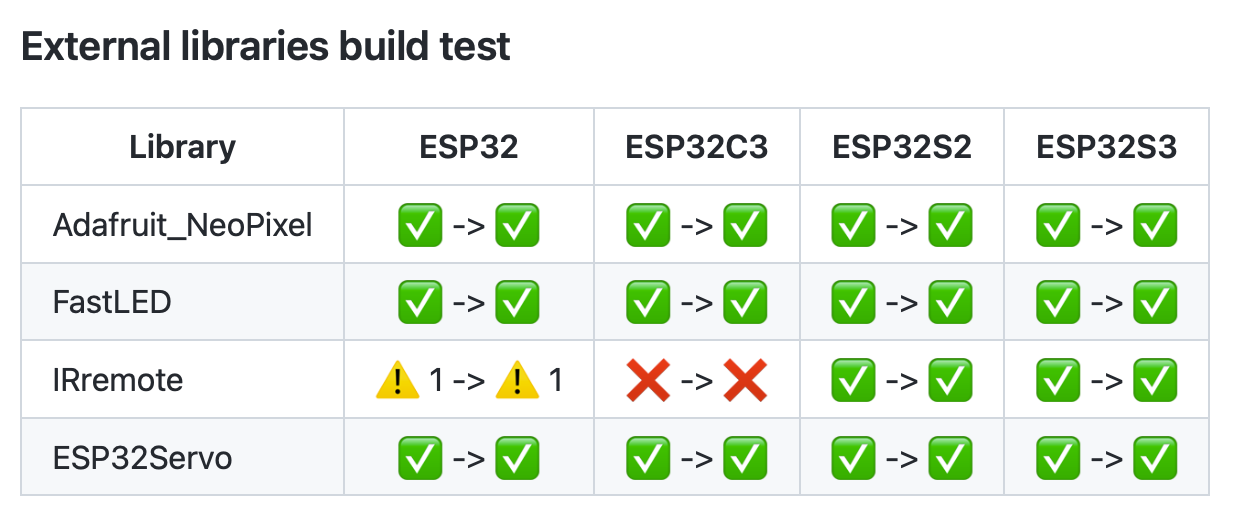
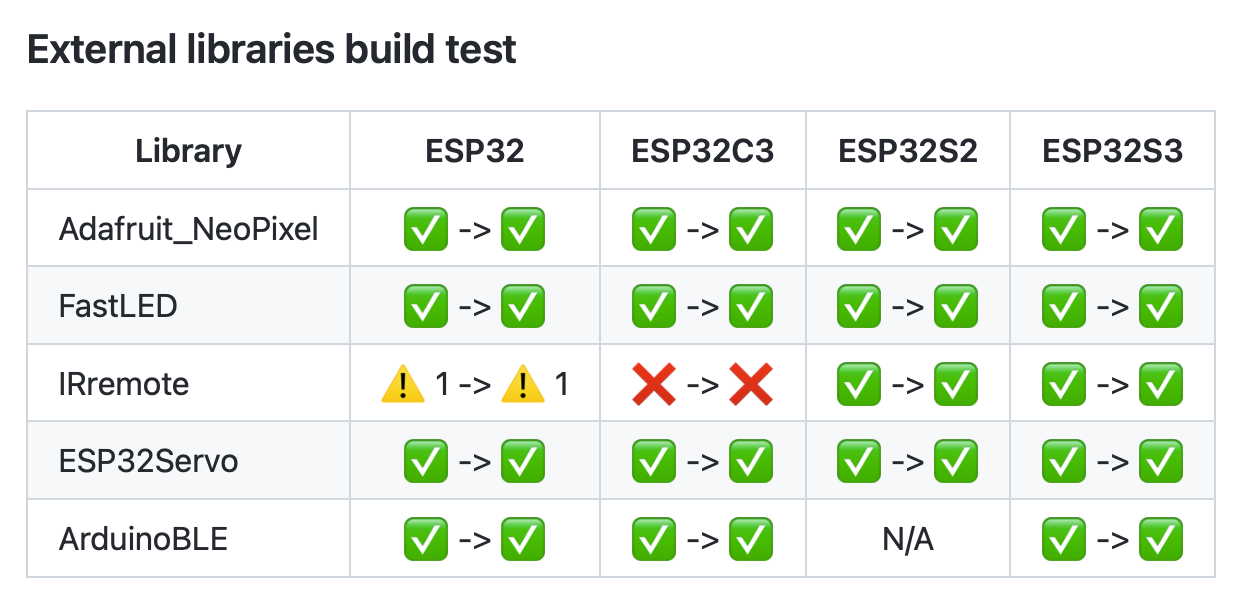
Updated docs

Changed region(s): [[0.0, 0.1544, 0.9838, 0.9575], [0.0, 0.0309, 0.4304, 0.1236]]

diff --git a/docs/source/external_libraries_test.rst b/docs/source/external_libraries_test.rst
@@ -11,8 +11,10 @@ The test is running on all supported ESP32 chips.
 How to Add Library to Test
 --------------------------
 
+Library uses peripheral which is has all chips
+**********************************************
 
-1. Add new line with the library name to the list of UNIVERSAL_LIBRARIES in lib.yml file:
+* Add new line with the library name to the list of UNIVERSAL_LIBRARIES in lib.yml file:
    
   .. code-block:: yaml
 
@@ -24,7 +26,7 @@ How to Add Library to Test
       - name: IRremote
       - name: ESP32Servo
 
-2. Add new line with the sketch path to the list of UNIVERSAL_SKETCHES in lib.yml file (sketch needs to be from the examples of the library):
+* Add new line with the sketch path to the list of UNIVERSAL_SKETCHES in lib.yml file (sketch needs to be from the examples of the library):
    
   .. code-block:: yaml
 
@@ -35,10 +37,47 @@ How to Add Library to Test
       ~/Arduino/libraries/IRremote/examples/SendDemo/SendDemo.ino
       ~/Arduino/libraries/ESP32Servo/examples/Knob/Knob.ino
 
-3. Open a PR with the changes and someone from Espressif team will add a label "lib_test" to the PR and CI will run the 
+* Open a PR with the changes and someone from Espressif team will add a label "lib_test" to the PR and CI will run the 
    test to check, if the addition is fine and library / example are compiling.
 
-4. After merging your PR, the next scheduled test will test your library and add the results to the "LIBRARIES_TEST.md" file.
+* After merging your PR, the next scheduled test will test your library and add the results to the "LIBRARIES_TEST.md" file.
+
+Library uses peripheral specific to some chips
+**********************************************
+
+* Add new line with the library name to the list of additional-libraries: under each SOC which supports the peripheral used by library in lib.yml file:
+   
+* Add new line with the sketch path to the list of additional-sketches under each SOC which supports the peripheral in lib.yml file 
+   (sketch needs to be from the examples of the library):
+   
+  Example for adding ArduinoBLE library (ESP32-S2 dont have BLE peripheral)
+
+  .. code-block:: yaml
+
+    include:
+      - fqbn: espressif:esp32:esp32
+        additional-libraries: |
+          - name: ArduinoBLE
+        additional-sketches: |
+          ~/Arduino/libraries/ArduinoBLE/examples/Central/Scan/Scan.ino
+      - fqbn: espressif:esp32:esp32s2
+        additional-libraries:
+        additional-sketches:
+      - fqbn: espressif:esp32:esp32c3
+        additional-libraries: |
+          - name: ArduinoBLE
+        additional-sketches: |
+          ~/Arduino/libraries/ArduinoBLE/examples/Central/Scan/Scan.ino
+      - fqbn: espressif:esp32:esp32s3
+        additional-libraries: |
+          - name: ArduinoBLE
+        additional-sketches: |
+          ~/Arduino/libraries/ArduinoBLE/examples/Central/Scan/Scan.ino
+
+* Open a PR with the changes and someone from Espressif team will add a label "lib_test" to the PR and CI will run the 
+   test to check, if the addition is fine and library / example are compiling.
+
+* After merging your PR, the next scheduled test will test your library and add the results to the "LIBRARIES_TEST.md" file.
 
 Test Results
 ------------
